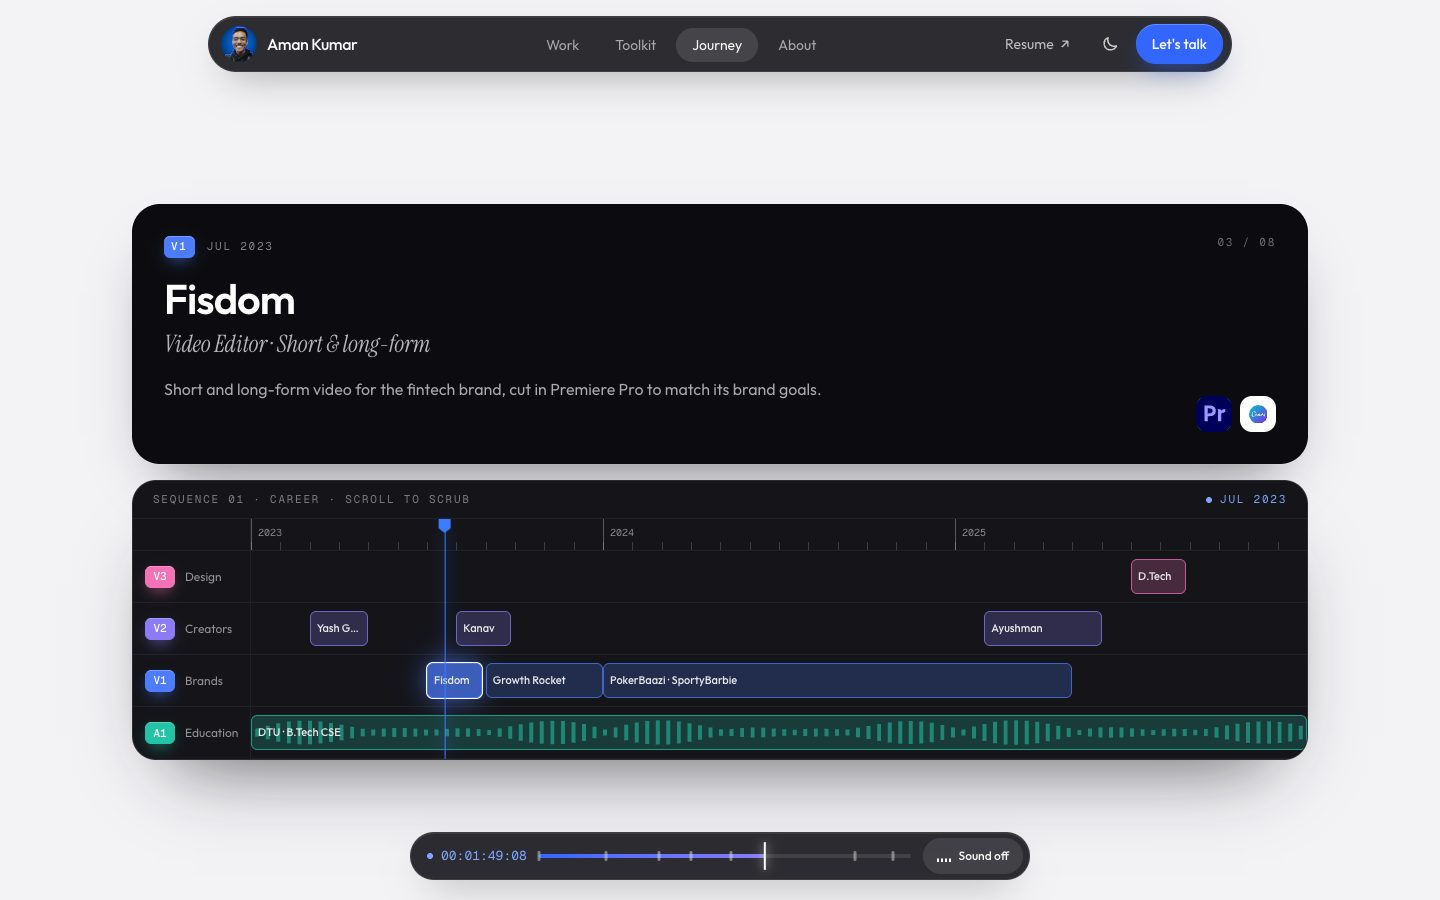
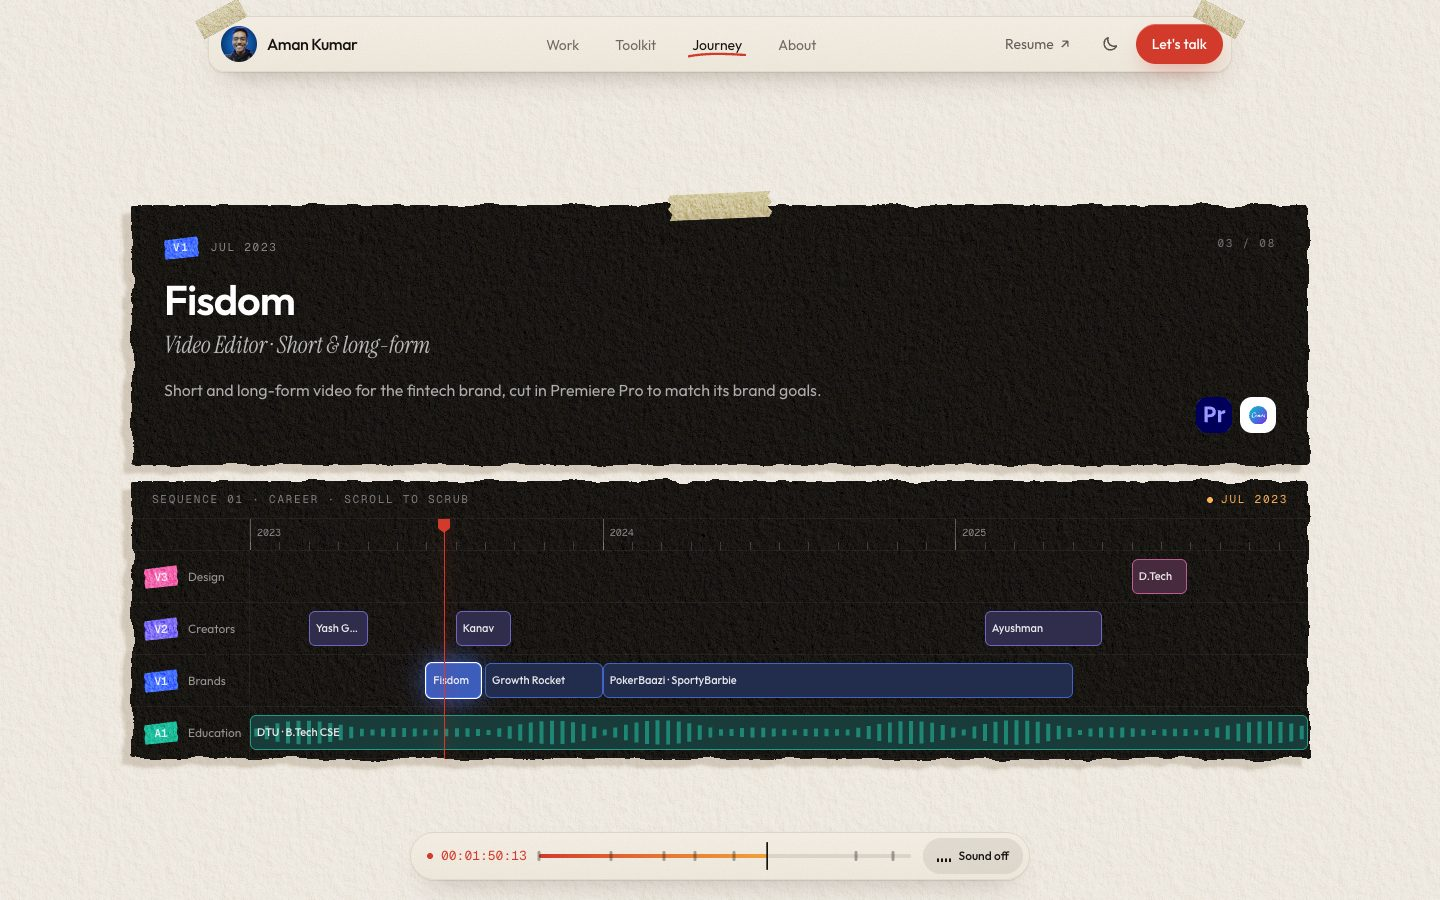
Update README and screenshots for the case-board redesign
Describes the case board, bulb-driven theme switch, double-click zoom and
rough-paper style; new editing pointers for the board layout and bulb;
credits for the CC0 assets; fresh light and dark screenshots.

diff --git a/README.md b/README.md
@@ -2,35 +2,38 @@
 
 # Aman Kumar: Video Editor & Motion Designer
 
-A portfolio built like an editing timeline: autoplaying short-form reels, long-form YouTube edits, a software toolkit, and a career sequence you scrub by scrolling. Light and dark themes, with 3D scenes in React Three Fiber.
+A portfolio styled as a detective's case board: a torn-paper sheet pinned to a concrete wall, red string between pinned scraps, and a hanging 3D bulb that lights the page when you switch to dark mode. Below it: autoplaying short-form reels, long-form YouTube edits, a software toolkit and a career timeline you scrub by scrolling. Every section is rough paper, tape and cast shadows.
 
 **[Live site](https://portfolio-aman-xi.vercel.app/)**
 
-<img width="720" src="ss/hero.jpg" alt="Hero: a viewfinder with a 3D laptop">
-<img width="720" src="ss/work.jpg" alt="Short-form reels, autoplaying">
+<img width="720" src="ss/hero.jpg" alt="Hero: a case board on a concrete wall, light theme">
+<img width="720" src="ss/hero-dark.jpg" alt="Hero in dark theme, lit by the hanging bulb">
 
 </div>
 
 > **Note**: The 3D model of Delhi Technological University (DTU) used here is an original creation by me (Aman Kumar) and is **not open for reuse or redistribution**. The reels and videos belong to the brands and creators they were made for.
+>
+> The hanging bulb model and the wall texture come from [Poly Haven](https://polyhaven.com), and the paper and rope textures from [ambientCG](https://ambientcg.com). All are CC0 (free to use).
 
 ---
 
 ## Features
 
-- **Short-form**: a grid of 9:16 reels that autoplay muted while on screen. Hovering shows a Sound button. Once sound is on, hovering any reel plays its audio (one at a time), and clicking opens the full video with controls. Filter by client.
+- **The case board (hero)**: a torn sheet on a rough wall with tape, pushpins, polaroids, a stamp, red-pen notes and red strings from the photo to every pinned scrap. Each scrap links to its section, swings on its pin when you hover, and flutters as you scroll away. Foreground rope drifts past at a different speed from the wall. Every shadow falls away from the bulb, so they're short by day and long and sharp at night.
+- **Double-click zoom**: double-click (or double-tap) anywhere on the board to zoom into that spot; do it again, press Esc or scroll to zoom back out.
+- **The bulb and the theme**: a realistic hanging bulb with a brass pull chain. Click it, or the navbar button, to switch between light and dark. It flickers on, lights the wall and laptop, swings when you brush it or scroll, and hangs switched off in light mode. The choice is saved, and follows the device setting until you pick.
+- **Short-form**: 9:16 reels that autoplay muted while on screen. Hovering shows a Sound button; once sound is on, hovering any reel plays its audio (one at a time). Click to open the full video. Filter by client.
 - **Long-form**: YouTube edits as muted looping previews, opened in a full-size player.
 - **Toolkit**: a 3D keyboard of 12 software keycaps (Premiere Pro, After Effects, Photoshop, Illustrator, Blender, Figma, Canva, Three.js, React, Next.js, Tailwind, GSAP).
 - **Journey**: a Premiere-style timeline with tracks and clips. The playhead moves as you scroll and the details change clip by clip.
-- **Interactive throughout**: a viewfinder hero with a live REC timecode, scroll-driven text and stats, a bottom transport bar (timecode, section markers, sound toggle, press `M`), and a URL `#hash` that follows the section you're in.
-- **Light and dark themes**: a toggle in the navbar, saved between visits, following the device setting until you choose.
-- **3D scenes**: an animated laptop in the hero and the DTU front gate in About. Both render only while on screen.
-- **Responsive and accessible**: works down to 320px wide, respects reduced-motion settings, keyboard-friendly.
+- **Paper style throughout**: cards have rough torn edges, tape and left-falling shadows; the navbar and bottom bar are taped paper strips; a bottom transport bar shows timecode, section markers and a sound toggle (press `M`); the URL `#hash` follows the section you're in.
+- **Responsive and accessible**: works down to 320px wide (the board has a separate portrait layout), respects reduced-motion settings, keyboard-friendly.
 
 <div align="center">
-<img width="480" src="ss/hero-dark.jpg" alt="Dark theme hero">
+<img width="480" src="ss/work.jpg" alt="Short-form reels, autoplaying">
+<img width="480" src="ss/work-dark.jpg" alt="Reels in dark theme">
 <img width="480" src="ss/toolkit.jpg" alt="Toolkit keyboard">
 <img width="480" src="ss/journey.jpg" alt="Career timeline">
-<img width="480" src="ss/work-dark.jpg" alt="Reels in dark theme">
 </div>
 
 ---
@@ -39,7 +42,7 @@ A portfolio built like an editing timeline: autoplaying short-form reels, long-f
 
 - **React 19** with **Vite**
 - **Tailwind CSS 4**
-- **Three.js** via `@react-three/fiber` and `@react-three/drei` for the 3D scenes
+- **Three.js** via `@react-three/fiber` and `@react-three/drei` for the bulb, the laptop and the DTU scene
 - **GSAP** (`ScrollTrigger`) for scroll-driven motion
 - **Deployment**: [Vercel](https://vercel.com)
 
@@ -81,7 +84,9 @@ Add its YouTube id to `longForm` in `src/data/work.js`.
 
 ### Changing the look
 
-- Colors, the dark theme and shared styles are in `src/index.css` (the `@theme` block and the `[data-theme="dark"]` block).
+- Colors, the dark theme and shared styles are in `src/index.css` (the `@theme` block and the `[data-theme="dark"]` block). Shadow strength and length are the `--shadow-*` variables there.
+- **The board's text and layout**: the copy is in `src/components/hero/CaseBoard.jsx`; every position, size and rotation is in `src/components/hero/layout.js`, separately for desktop and phone. `lamp` is where the bulb hangs, which sets the shadow direction.
+- **The bulb**: `src/components/Bulb.jsx` (size, flicker, glow); its model is in `public/models/lightbulb_01/`.
 - The Premiere timeline behind the short-form heading is drawn by `src/components/TimelineBackdrop.jsx`. Its strength is the `opacity-75` class in `src/sections/ShortForm.jsx`.
 
 ---
@@ -91,14 +96,16 @@ Add its YouTube id to `longForm` in `src/data/work.js`.
 ```
 src/
   sections/     Hero, Intro, ShortForm, LongForm, Toolkit, Journey, Design, About, Navbar, Footer
-  components/   3D scenes, video tiles and player (media/), keycap logos, transport bar, icons
+  components/   hero/ (case board, strings, torn-paper shapes), Bulb, video tiles and player (media/),
+                keycap logos, transport bar, icons
   data/         Editable content (work, toolkit, journey)
   hooks/        useInView, useTheme
   lib/          Scroll and observer helpers, timecode formatting, video file lookup
   assets/videos/  Reels dropped in here are picked up automatically
 public/
-  models/       3D models (laptop, DTU campus)
-  assets/       Images and the hero laptop's screen video
+  models/       3D models (laptop, DTU campus, light bulb)
+  hero/         Wall, paper and rope textures and the pushpin, used by the hero
+  assets/       Images and the laptop's screen video
 ```
 
 ---
